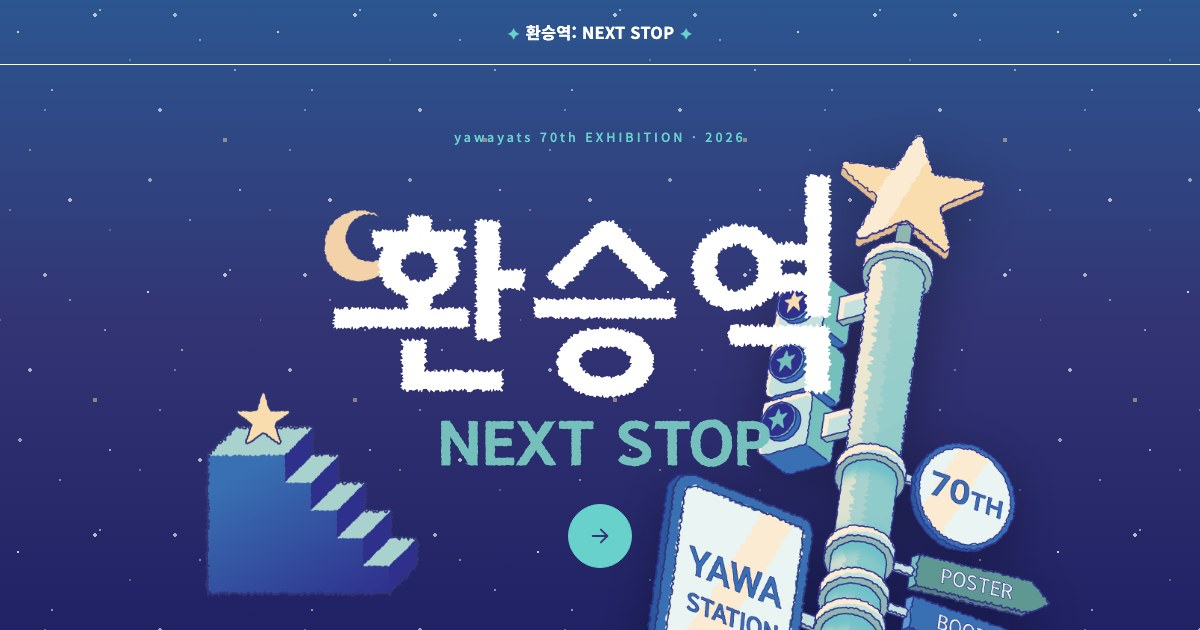
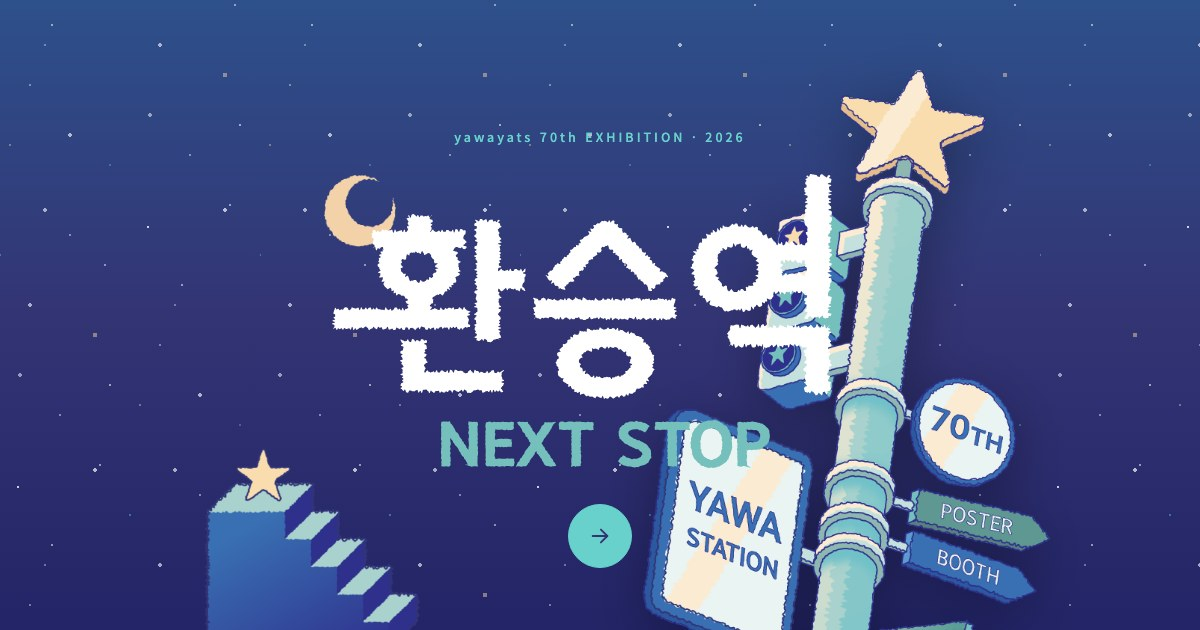
모바일 버튼 크기 축소 및 OG 이미지 헤더 제외 크롭
- 인덱스 화살표/진입하기/랜덤 환승, 헤더 우측 버튼, 상세페이지 Platform 배지를
  모바일(≤600px)에서만 축소 — PC 화면은 기존과 동일
- OG 공유 썸네일을 헤더 바 없이 히어로 영역만 나오도록 다시 크롭

diff --git a/assets/css/style.css b/assets/css/style.css
@@ -134,8 +134,8 @@ h1, h2, h3 { font-family: var(--font); font-weight: 600; margin: 0; }
   }
   .site-logo { font-size: 0.88rem; gap: 5px; }
   .site-logo .pin { font-size: 0.8rem; }
-  .signboard { padding: 6px 12px; font-size: 0.72rem; }
-  .header-actions { gap: 6px; }
+  .signboard { padding: 5px 9px; font-size: 0.6rem; }
+  .header-actions { gap: 5px; }
 }
 
 .site-logo {
@@ -324,6 +324,10 @@ h1, h2, h3 { font-family: var(--font); font-weight: 600; margin: 0; }
   color: var(--navy);
   transform: scale(1.06);
 }
+@media (max-width: 600px) {
+  .arrow-button { width: 46px; height: 46px; margin-top: 24px; }
+  .arrow-button svg { width: 16px; height: 16px; }
+}
 
 .intro-star img {
   width: 30px;
@@ -377,6 +381,14 @@ h1, h2, h3 { font-family: var(--font); font-weight: 600; margin: 0; }
   letter-spacing: 0.5px;
   cursor: pointer;
   transition: background 0.15s ease, color 0.15s ease, border-color 0.15s ease;
+}
+@media (max-width: 600px) {
+  .cta-button,
+  .cta-secondary {
+    padding: 11px 22px;
+    font-size: 0.8rem;
+    gap: 6px;
+  }
 }
 
 .cta-button {
@@ -744,6 +756,11 @@ h1, h2, h3 { font-family: var(--font); font-weight: 600; margin: 0; }
   line-height: 1;
   font-variant-numeric: tabular-nums;
   white-space: nowrap;
+}
+@media (max-width: 600px) {
+  .tag { padding: 6px 14px; gap: 6px; }
+  .tag-label { font-size: 0.62rem; }
+  .flap { font-size: 1.1rem; }
 }
 .flap-digit {
   display: inline-block;
